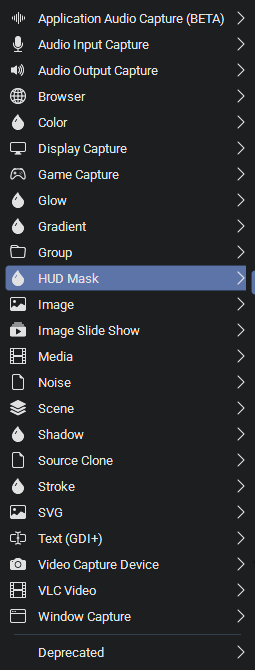
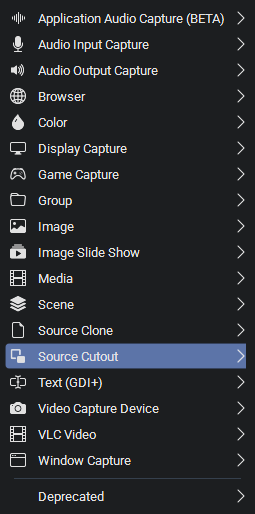
Check for updates on each launch, and reopen OBS after install. (#51)

Changed region(s): [[0.0, 0.0, 1.0, 0.9961]]

diff --git a/src/update-check.cpp b/src/update-check.cpp
@@ -580,14 +580,7 @@ void update_check_worker()
 	if (g_cancel.load())
 		return;
 
-	obs_data_t *prior = load_state();
 	const int64_t now = static_cast<int64_t>(time(nullptr));
-	const int64_t last = obs_data_get_int(prior, "last_check");
-	obs_data_release(prior);
-	if (last > 0 && now - last < k_check_interval_sec) {
-		obs_log(LOG_INFO, "update check: skipped, last check within 24h");
-		return;
-	}
 
 	obs_log(LOG_INFO, "checking for updates (installed %s)", PLUGIN_VERSION);
 

diff --git a/README.md b/README.md
@@ -18,7 +18,7 @@ Requires OBS Studio 33+ on Windows 10/11 x64. OBS 32 will not load this build. C
 
    ![Source Cutout in the Add Source menu](docs/images/add-source.png)
 
-The installer writes under `%ProgramData%\obs-studio\plugins\vertical-hud-mask\` and removes leftover copies from `C:\Program Files\obs-studio\` and from the old `bin\64bit` layout. The folder and source id stay `vertical-hud-mask` so existing scenes and saved masks keep working. A portable OBS copy in a custom folder is not removed. On later launches, Source Cutout checks GitHub for a newer release and can download and start the installer. Close OBS before running a new installer.
+The installer writes under `%ProgramData%\obs-studio\plugins\vertical-hud-mask\` and removes leftover copies from `C:\Program Files\obs-studio\` and from the old `bin\64bit` layout. The folder and source id stay `vertical-hud-mask` so existing scenes and saved masks keep working. A portable OBS copy in a custom folder is not removed. Each time OBS starts, Source Cutout checks GitHub for a newer release and can download and start the installer. OBS closes for that install and reopens when it finishes.
 
 ## Use
 
